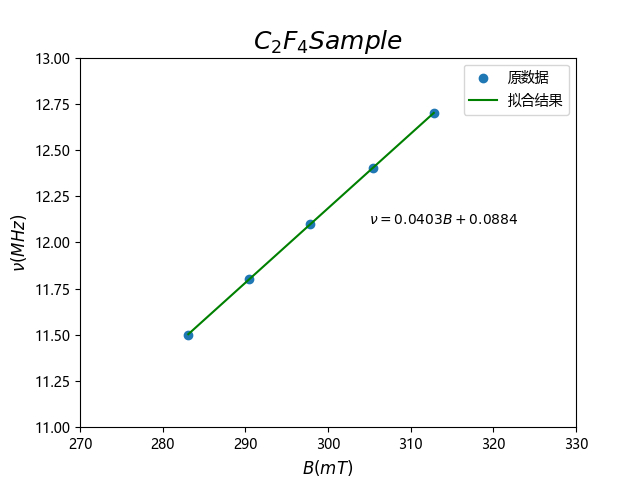
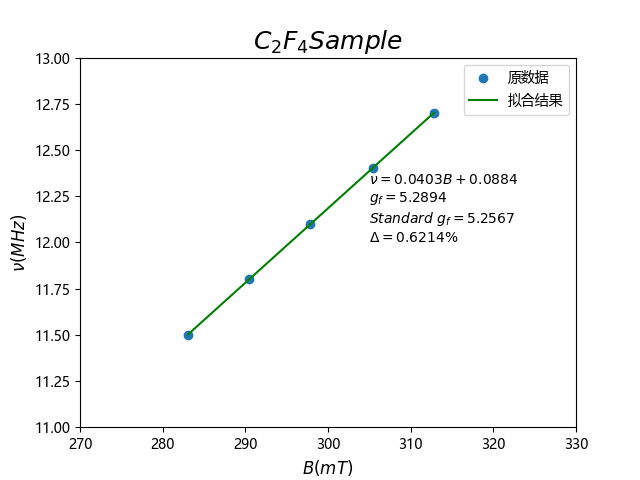
Update

Changed region(s): [[0.5625, 0.3438, 0.8125, 0.5]]

diff --git a/Python-数据处理理论课/Afterclass_Exercise/Exercise2.py b/Python-数据处理理论课/Afterclass_Exercise/Exercise2.py
@@ -1,62 +1,78 @@
-#读取核磁共振实验数据并进行拟合
-#数据在Data1.csv和Data2.csv中
-#Copyright(c) 2022 GeorgeDong32. All Rights Reserved.
+# 读取核磁共振实验数据并进行拟合
+# 数据在Data1.csv和Data2.csv中
+# Copyright(c) 2022 GeorgeDong32. All Rights Reserved.
 
 from cProfile import label
-import scipy.constants as cst 
+import scipy.constants as cst
 import pandas as pd
 import numpy as np
 import matplotlib.pyplot as plt
-from scipy.optimize import curve_fit 
+from scipy.optimize import curve_fit
+
 # plt防止中文乱码
-plt.rcParams['font.family'] = ['Arial Unicode MS','Microsoft YaHei','SimHei','sans-serif']
+plt.rcParams['font.family'] = ['Arial Unicode MS', 'Microsoft YaHei', 'SimHei', 'sans-serif']
 plt.rcParams['axes.unicode_minus'] = False
 
-#拟合函数定义
+
+# 拟合函数定义
 def fit_fun1(B, k1, b1):
     return k1 * B + b1
+
 
 def fit_fun2(B, k2, b2):
     return k2 * B + b2
 
-#数据导入
+
+# 数据导入
 data1 = pd.read_csv("H2O.csv")
-v_1 = data1.iloc[:,0]
-B_1 = data1.iloc[:,1]
+v_1 = data1.iloc[:, 0]
+B_1 = data1.iloc[:, 1]
 
-data2 = pd.read_csv("C2F4.csv",sep="\t")
-v_2 = data2.iloc[:,0]
-B_2 = data2.iloc[0:,1]
+data2 = pd.read_csv("C2F4.csv", sep="\t")
+v_2 = data2.iloc[:, 0]
+B_2 = data2.iloc[0:, 1]
 
-#数据拟合
-popt1,pcov1=curve_fit(fit_fun1,B_1,v_1)
-v_1fit = fit_fun1(B_1,popt1[0],popt1[1])
+# 数据拟合
+popt1, pcov1 = curve_fit(fit_fun1, B_1, v_1)
+v_1fit = fit_fun1(B_1, popt1[0], popt1[1])
 
-popt2,pcov2=curve_fit(fit_fun2,B_2,v_2)
-v_2fit = fit_fun2(B_2,popt2[0],popt2[1])
+popt2, pcov2 = curve_fit(fit_fun2, B_2, v_2)
+v_2fit = fit_fun2(B_2, popt2[0], popt2[1])
 
-#绘制图形
+# 数据处理
+h = 6.626E-34
+nu_0 = 5.051E-27
+g_h = (h / nu_0) * popt1[0] * 1E9
+g_f = (h / nu_0) * popt2[0] * 1E9
+stdg_h = 5.5857
+stdg_f = 5.2567
+deltag_h = (g_h - stdg_h) / (stdg_h / 100)
+deltag_f = (g_f - stdg_f) / (stdg_f / 100)
+
+# 绘制图形
 ## 1号数据绘图区
 plt.figure()
-plt.axis([240,310,10,13])
-plt.scatter(B_1,v_1,marker='o',label="原数据")
-plt.plot(B_1,v_1fit,color='red',label="拟合结果")
-plt.xlabel("$B(mT)$",fontsize=12)
-plt.ylabel("$\\nu(MHz)$",fontsize=12)
-plt.title("$H_2 O Sample$",fontsize=18)
-plt.annotate("$\\nu = %5.4fB + %5.4f$\n" %(popt1[0],popt1[1]), xy=(260,12))
+plt.axis([240, 310, 10, 13])
+plt.scatter(B_1, v_1, marker='o', label="原数据")
+plt.plot(B_1, v_1fit, color='red', label="拟合结果")
+plt.xlabel("$B(mT)$", fontsize=12)
+plt.ylabel("$\\nu(MHz)$", fontsize=12)
+plt.title("$H_2 O Sample$", fontsize=18)
+plt.annotate("$\\nu = %5.4fB + %5.4f$\n$g_h = %5.4f$\n$Standard \\ g_h = %5.4f$\n$\\Delta = %5.4f\%%$"% (popt1[0], popt1[1], g_h, stdg_h, deltag_h),
+             xy=(260, 12))
 plt.legend()
 plt.savefig(".\H2OSample.png")
 
 ## 2号数据绘图区
 plt.figure()
-plt.axis([270,330,11,13])
-plt.scatter(B_2,v_2,marker='o',label="原数据")
-plt.plot(B_2,v_2fit,color='green',label="拟合结果")
-plt.xlabel("$B(mT)$",fontsize=12)
-plt.ylabel("$\\nu(MHz)$",fontsize=12)
-plt.title("$C_2 F_4 Sample$",fontsize=18)
-plt.annotate("$\\nu = %5.4fB + %5.4f$\n" %(popt2[0],popt2[1]), xy=(305,12))
+plt.axis([270, 330, 11, 13])
+plt.scatter(B_2, v_2, marker='o', label="原数据")
+plt.plot(B_2, v_2fit, color='green', label="拟合结果")
+plt.xlabel("$B(mT)$", fontsize=12)
+plt.ylabel("$\\nu(MHz)$", fontsize=12)
+plt.title("$C_2 F_4 Sample$", fontsize=18)
+plt.annotate("$\\nu = %5.4fB + %5.4f$\n$g_f = %5.4f$\n$Standard \\ g_f = %5.4f$\n$\\Delta = %5.4f\%%$" % (popt2[0], popt2[1], g_f, stdg_f, deltag_f),
+             xy=(305, 12))
 plt.legend()
 plt.savefig(".\C2F4Sample.png")
 plt.show()

diff --git a/Python-数据处理理论课/Afterclass_Exercise/Readme.md b/Python-数据处理理论课/Afterclass_Exercise/Readme.md
@@ -1,0 +1,9 @@
+# Python数据处理课后作业
+## 练习一
+> 高斯分布拟合
+
+对应练习文件为[`Exercise1.py`](.\Exercise1.py)，练习结果为 [`Gaussian_fitting.png`](.\Gaussian_fitting.png)
+## 练习二
+> 核磁共振实验数据分析
+
+练习文件为[`Exercise2.py`](.\Exercise2.py)，练习结果为[`C2F4Sample.png`](.\C2F4Sample.png),[`H2OSample.png`](H2OSample.png)，数据文件为[`C2F4.csv`](.\C2F4.csv),[`H2O.csv`](H2O.csv)
